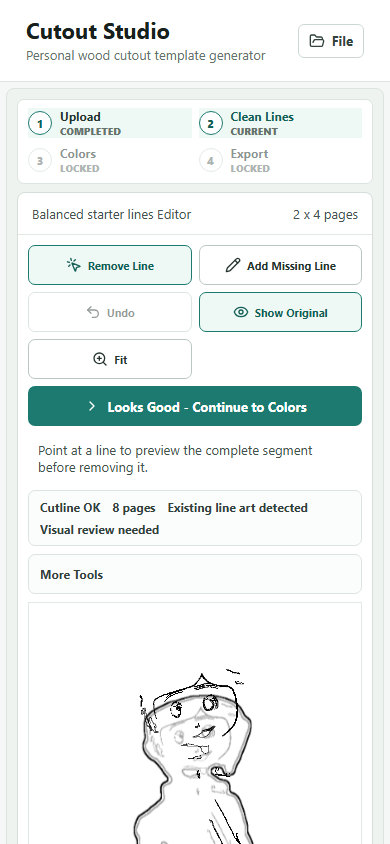
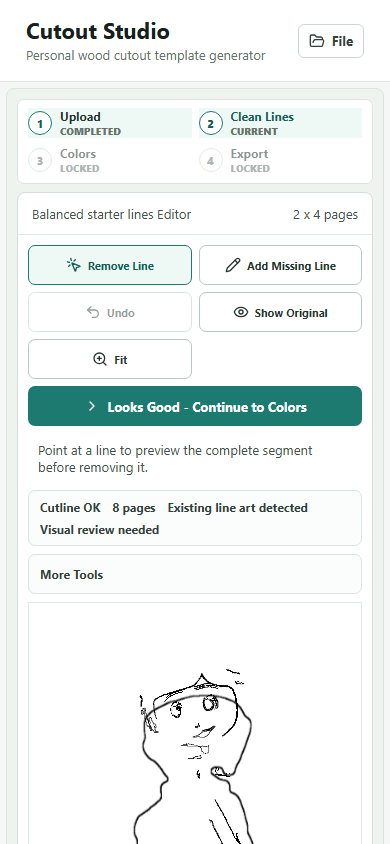
fix: fit trace content on editor entry

diff --git a/src/main.tsx b/src/main.tsx
@@ -75,6 +75,7 @@ import {
   mergeTraceBounds,
   panViewport,
   screenToTracePoint,
+  shouldAutoFitViewport,
   zoomViewport,
   type TraceBounds,
   type TraceViewport
@@ -149,6 +150,9 @@ function App() {
   const [editableDetailLinesPresent, setEditableDetailLinesPresent] = useState(false);
   const [traceViewport, setTraceViewport] = useState<TraceViewport>(DEFAULT_TRACE_VIEWPORT);
   const [cutlineBounds, setCutlineBounds] = useState<TraceBounds | null>(null);
+  const [cutlineBoundsResolved, setCutlineBoundsResolved] = useState(false);
+  const [detailLineBounds, setDetailLineBounds] = useState<TraceBounds | null>(null);
+  const [detailLineBoundsResolved, setDetailLineBoundsResolved] = useState(false);
   const [selectedStrokeId, setSelectedStrokeId] = useState<string | null>(null);
   const [dimUnselectedStrokes, setDimUnselectedStrokes] = useState(false);
   const [selectionFeedback, setSelectionFeedback] = useState("");
@@ -192,6 +196,8 @@ function App() {
   const strokeDragRef = useRef<StrokeDragState | null>(null);
   const strokeIdRef = useRef(0);
   const pendingContentFitRef = useRef(false);
+  const viewportUserModifiedRef = useRef(false);
+  const traceContentBoundsRef = useRef<TraceBounds | null>(null);
   const reviewedLineworkRef = useRef<{
     manualStrokes: TraceStroke[];
     editedDetailDataUrl: string | null;
@@ -288,6 +294,10 @@ function App() {
     setSelectionFeedback("");
     setTraceViewport(DEFAULT_TRACE_VIEWPORT);
     setCutlineBounds(null);
+    setCutlineBoundsResolved(false);
+    setDetailLineBounds(null);
+    setDetailLineBoundsResolved(false);
+    viewportUserModifiedRef.current = false;
     setPrintPreview(false);
     setEditableDetailLinesPresent(false);
   }
@@ -346,6 +356,8 @@ function App() {
     if (!analysis || !editorOpen) return;
     if (traceStudioOpen) {
       setEditableDetailLinesPresent(false);
+      setDetailLineBounds(null);
+      setDetailLineBoundsResolved(true);
       renderManualTraceLayer(manualStrokes);
       return;
     }
@@ -355,13 +367,15 @@ function App() {
   useEffect(() => {
     let cancelled = false;
     setCutlineBounds(null);
+    setCutlineBoundsResolved(false);
     if (!analysis) return;
     void imageContentBounds(analysis.outerLinePngDataUrl, {
       width: analysis.previewWidthPx,
       height: analysis.previewHeightPx
     }).then((bounds) => {
       if (!cancelled) {
-        setCutlineBounds(bounds ?? fullCanvasBounds({ width: analysis.previewWidthPx, height: analysis.previewHeightPx }));
+        setCutlineBounds(bounds);
+        setCutlineBoundsResolved(true);
       }
     });
     return () => {
@@ -370,11 +384,32 @@ function App() {
   }, [analysis]);
 
   useEffect(() => {
-    if (!pendingContentFitRef.current || !analysis || !editorOpen || !cutlineBounds) return;
+    if (!shouldAutoFitViewport({ pending: pendingContentFitRef.current, userModified: viewportUserModifiedRef.current })) return;
+    if (!analysis || !editorOpen || !cutlineBoundsResolved || !detailLineBoundsResolved) return;
     if (fitTraceViewportToContent()) {
       pendingContentFitRef.current = false;
     }
-  }, [analysis, editorOpen, traceStudioOpen, cutlineBounds]);
+  }, [analysis, editorOpen, traceStudioOpen, cutlineBounds, cutlineBoundsResolved, detailLineBounds, detailLineBoundsResolved, manualStrokes]);
+
+  useEffect(() => {
+    const viewport = editorViewportRef.current;
+    if (!viewport || !analysis || !editorOpen || !cutlineBoundsResolved || !detailLineBoundsResolved) return;
+    let previousWidth = 0;
+    let previousHeight = 0;
+    const observer = new ResizeObserver((entries) => {
+      const rect = entries[0]?.contentRect;
+      if (!rect || rect.width <= 1 || rect.height <= 1 || viewportUserModifiedRef.current) return;
+      const meaningfullyChanged = Math.abs(rect.width - previousWidth) >= 2 || Math.abs(rect.height - previousHeight) >= 2;
+      previousWidth = rect.width;
+      previousHeight = rect.height;
+      if (!meaningfullyChanged) return;
+      requestAnimationFrame(() => {
+        if (!viewportUserModifiedRef.current) fitTraceViewportToContent();
+      });
+    });
+    observer.observe(viewport);
+    return () => observer.disconnect();
+  }, [analysis, editorOpen, cutlineBoundsResolved, detailLineBoundsResolved]);
 
   useEffect(() => {
     if (selectedStrokeId && !manualStrokes.some((stroke) => stroke.id === selectedStrokeId)) {
@@ -681,6 +716,7 @@ function App() {
     setPrintPreview(false);
     setTraceViewport(project.traceViewport);
     pendingContentFitRef.current = isDefaultTraceViewport(project.traceViewport);
+    viewportUserModifiedRef.current = !isDefaultTraceViewport(project.traceViewport);
     setSelectedStrokeId(null);
     setDimUnselectedStrokes(false);
     setSelectionFeedback("");
@@ -889,6 +925,7 @@ function App() {
     clearRemovalPreview();
     const canvas = detailCanvasRef.current;
     if (!canvas) return;
+    setDetailLineBoundsResolved(false);
     const image = new Image();
     image.onload = () => {
       clearRemovalPreview();
@@ -898,7 +935,14 @@ function App() {
       if (!context) return;
       context.clearRect(0, 0, canvas.width, canvas.height);
       context.drawImage(image, 0, 0);
-      setEditableDetailLinesPresent(canvasHasVisibleInk(canvas));
+      const bounds = canvasContentBounds(canvas);
+      setEditableDetailLinesPresent(bounds !== null);
+      setDetailLineBounds(bounds);
+      setDetailLineBoundsResolved(true);
+    };
+    image.onerror = () => {
+      setDetailLineBounds(null);
+      setDetailLineBoundsResolved(true);
     };
     image.src = src;
   }
@@ -1075,6 +1119,8 @@ function App() {
       const previous = panStartRef.current;
       if (!previous) return;
       const current = { x: event.clientX, y: event.clientY };
+      viewportUserModifiedRef.current = true;
+      pendingContentFitRef.current = false;
       setTraceViewport((viewport) => panViewport(viewport, { x: current.x - previous.x, y: current.y - previous.y }));
       panStartRef.current = current;
       return;
@@ -1146,7 +1192,9 @@ function App() {
       }
       safelyReleasePointerCapture(event.currentTarget, event.pointerId);
       setEditedDetailDataUrl(event.currentTarget.toDataURL("image/png"));
-      setEditableDetailLinesPresent(canvasHasVisibleInk(event.currentTarget));
+      const bounds = canvasContentBounds(event.currentTarget);
+      setEditableDetailLinesPresent(bounds !== null);
+      setDetailLineBounds(bounds);
     }
     drawingRef.current = false;
     lastPointRef.current = null;
@@ -1228,7 +1276,9 @@ function App() {
     saveHistorySnapshot();
     context.putImageData(imageData, 0, 0);
     setEditedDetailDataUrl(canvas.toDataURL("image/png"));
-    setEditableDetailLinesPresent(canvasHasVisibleInk(canvas));
+    const bounds = canvasContentBounds(canvas);
+    setEditableDetailLinesPresent(bounds !== null);
+    setDetailLineBounds(bounds);
     clearRemovalPreview();
   }
 
@@ -1286,7 +1336,9 @@ function App() {
     saveHistorySnapshot();
     context.putImageData(imageData, 0, 0);
     setEditedDetailDataUrl(canvas.toDataURL("image/png"));
-    setEditableDetailLinesPresent(canvasHasVisibleInk(canvas));
+    const bounds = canvasContentBounds(canvas);
+    setEditableDetailLinesPresent(bounds !== null);
+    setDetailLineBounds(bounds);
     clearRemovalPreview();
   }
 
@@ -1382,6 +1434,8 @@ function App() {
   }
 
   function changeZoom(nextZoom: number) {
+    viewportUserModifiedRef.current = true;
+    pendingContentFitRef.current = false;
     const viewport = editorViewportRef.current;
     const focus = viewport
       ? { x: viewport.clientWidth / 2, y: viewport.clientHeight / 2 }
@@ -1393,12 +1447,16 @@ function App() {
   }
 
   function resetZoom() {
+    viewportUserModifiedRef.current = false;
+    pendingContentFitRef.current = false;
     if (!fitTraceViewportToContent()) {
       setTraceViewport(DEFAULT_TRACE_VIEWPORT);
     }
   }
 
   function hundredPercentZoom() {
+    viewportUserModifiedRef.current = true;
+    pendingContentFitRef.current = false;
     const viewport = editorViewportRef.current;
     if (!viewport || !analysis) {
       setTraceViewport({ zoom: 1, panX: 0, panY: 0 });
@@ -1429,12 +1487,16 @@ function App() {
   }
 
   function traceContentBounds() {
-    if (!analysis) return fullCanvasBounds({ width: 1, height: 1 });
-    const canvasBounds = fullCanvasBounds({ width: analysis.previewWidthPx, height: analysis.previewHeightPx });
-    const strokeBounds = boundsFromTraceStrokes(manualStrokes);
-    if (strokeBounds) return mergeTraceBounds([cutlineBounds, strokeBounds]) ?? strokeBounds;
-    return cutlineBounds ?? canvasBounds;
+    return traceContentBoundsRef.current ?? fullCanvasBounds({
+      width: analysis?.previewWidthPx ?? 1,
+      height: analysis?.previewHeightPx ?? 1
+    });
   }
+
+  traceContentBoundsRef.current = analysis
+    ? mergeTraceBounds([cutlineBounds, detailLineBounds, boundsFromTraceStrokes(manualStrokes)])
+      ?? fullCanvasBounds({ width: analysis.previewWidthPx, height: analysis.previewHeightPx })
+    : null;
 
   return (
     <main className="app-shell">
@@ -2800,16 +2862,30 @@ function defaultEditorToolForTraceMode(mode: TraceMode): EditorTool {
 }
 
 function canvasHasVisibleInk(canvas: HTMLCanvasElement) {
+  return canvasContentBounds(canvas) !== null;
+}
+
+function canvasContentBounds(canvas: HTMLCanvasElement): TraceBounds | null {
   const context = canvas.getContext("2d");
-  if (!context) return false;
+  if (!context || canvas.width === 0 || canvas.height === 0) return null;
   const pixels = context.getImageData(0, 0, canvas.width, canvas.height).data;
+  let left = canvas.width;
+  let top = canvas.height;
+  let right = -1;
+  let bottom = -1;
   for (let index = 0; index < pixels.length; index += 4) {
     const alpha = pixels[index + 3];
     if (alpha > 8 && (pixels[index] < 245 || pixels[index + 1] < 245 || pixels[index + 2] < 245)) {
-      return true;
+      const pixelIndex = index / 4;
+      const x = pixelIndex % canvas.width;
+      const y = Math.floor(pixelIndex / canvas.width);
+      left = Math.min(left, x);
+      top = Math.min(top, y);
+      right = Math.max(right, x);
+      bottom = Math.max(bottom, y);
     }
   }
-  return false;
+  return right >= left && bottom >= top ? { left, top, right: right + 1, bottom: bottom + 1 } : null;
 }
 
 function isGenericPaintLabel(entry: PaintGuideEntry) {

diff --git a/tests/traceViewport.test.ts b/tests/traceViewport.test.ts
@@ -4,8 +4,10 @@ import {
   centerBoundsInViewport,
   fitBoundsToViewport,
   fittedTraceSize,
+  mergeTraceBounds,
   panViewport,
   screenToTracePoint,
+  shouldAutoFitViewport,
   zoomViewport
 } from "../src/traceViewport.ts";
 
@@ -140,6 +142,25 @@ function occupiedHeightRatio(
 }
 
 {
+  const bounds = { left: 40, top: 220, right: 1160, bottom: 620 };
+  const canvasSize = { width: 1200, height: 800 };
+  const viewportSize = { width: 700, height: 520 };
+  const viewport = fitBoundsToViewport(bounds, canvasSize, viewportSize, { paddingPx: 32, targetFill: 0.8 });
+  const center = screenToTracePoint(
+    { x: viewportSize.width / 2, y: viewportSize.height / 2 },
+    viewport,
+    canvasSize,
+    viewportSize
+  );
+  const fitted = fittedTraceSize(canvasSize, viewportSize);
+  const occupiedWidth = ((bounds.right - bounds.left) / canvasSize.width) * fitted.width * viewport.zoom;
+
+  assertEqual(Math.round(center.x), 600, "wide content should remain horizontally centered");
+  assertEqual(Math.round(center.y), 420, "wide content should remain vertically centered");
+  assert(occupiedWidth <= viewportSize.width * 0.8 + 1, "wide content should fit without horizontal clipping");
+}
+
+{
   const fullCanvasFit = fitBoundsToViewport(
     { left: 0, top: 0, right: 1000, bottom: 1000 },
     { width: 1000, height: 1000 },
@@ -154,6 +175,25 @@ function occupiedHeightRatio(
   );
 
   assert(cutlineFit.zoom > fullCanvasFit.zoom, "fit should use content bounds instead of full canvas bounds");
+}
+
+{
+  const merged = mergeTraceBounds([
+    { left: 240, top: 80, right: 560, bottom: 1120 },
+    { left: 180, top: 210, right: 620, bottom: 980 },
+    { left: 150, top: 140, right: 650, bottom: 1040 }
+  ]);
+
+  assertEqual(merged?.left, 150, "merged fit should include manual strokes left of the cutline");
+  assertEqual(merged?.top, 80, "merged fit should include the cutline top");
+  assertEqual(merged?.right, 650, "merged fit should include manual strokes right of starter lines");
+  assertEqual(merged?.bottom, 1120, "merged fit should include the cutline bottom");
+}
+
+{
+  assert(shouldAutoFitViewport({ pending: true, userModified: false }), "pending default viewport should auto-fit");
+  assert(!shouldAutoFitViewport({ pending: true, userModified: true }), "user-modified viewport must not be overwritten");
+  assert(!shouldAutoFitViewport({ pending: false, userModified: false }), "ordinary renders should not trigger fitting");
 }
 
 {

diff --git a/tests/e2e/mvp-workflow.spec.ts b/tests/e2e/mvp-workflow.spec.ts
@@ -420,6 +420,19 @@ test("guided workflow remains focused and responsive through Coraline acceptance
   await expect(page.getByLabel("More Tools")).not.toHaveAttribute("open", "");
   await page.setViewportSize({ width: 1440, height: 900 });
   await expectCleanCanvasDominance(page, cleanWorkspace);
+  await expectTraceFit(page);
+
+  const tracePlane = page.locator(".template-canvas-plane");
+  const moreTools = page.getByLabel("More Tools");
+  await moreTools.locator("summary").click();
+  await page.getByLabel("Template editor tools").getByRole("button", { name: "Zoom in" }).click();
+  const userZoomTransform = await tracePlane.evaluate((element) => getComputedStyle(element).transform);
+  await primaryControls.getByRole("button", { name: "Show Original" }).click();
+  await expect.poll(() => tracePlane.evaluate((element) => getComputedStyle(element).transform)).toBe(userZoomTransform);
+  await primaryControls.getByRole("button", { name: "Fit" }).click();
+  await expect.poll(() => tracePlane.evaluate((element) => getComputedStyle(element).transform)).not.toBe(userZoomTransform);
+  await expectTraceFit(page);
+  await moreTools.locator("summary").click();
 
   const detailCanvas = page.getByLabel("Editable interior detail lines");
   const fixtureDataUrl = `data:image/png;base64,${readFileSync("backend/tests/fixtures/coraline/coraline-detail-layer.png").toString("base64")}`;

diff --git a/src/traceViewport.ts b/src/traceViewport.ts
@@ -18,6 +18,10 @@ export type TraceFitOptions = {
   targetFill?: number;
 };
 
+export function shouldAutoFitViewport(state: { pending: boolean; userModified: boolean }) {
+  return state.pending && !state.userModified;
+}
+
 export const DEFAULT_TRACE_VIEWPORT: TraceViewport = {
   zoom: 1,
   panX: 0,